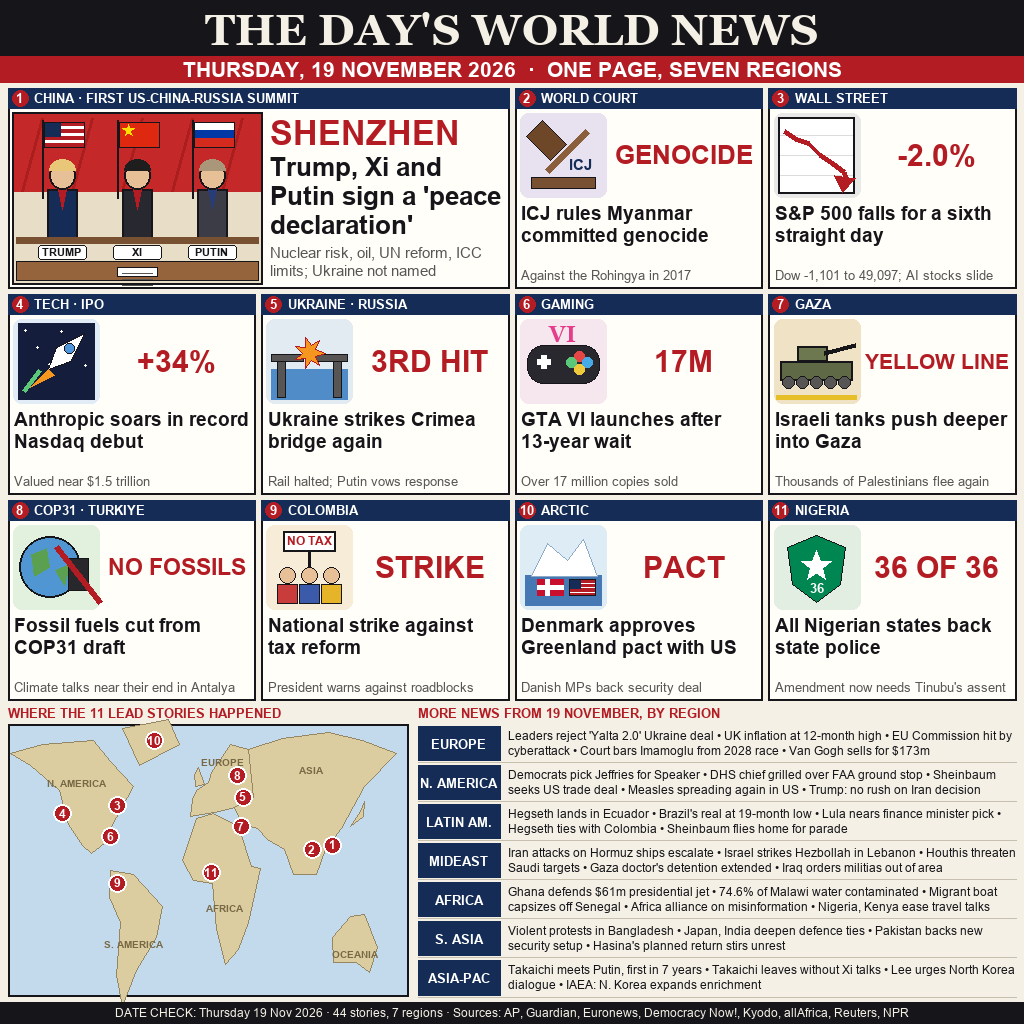
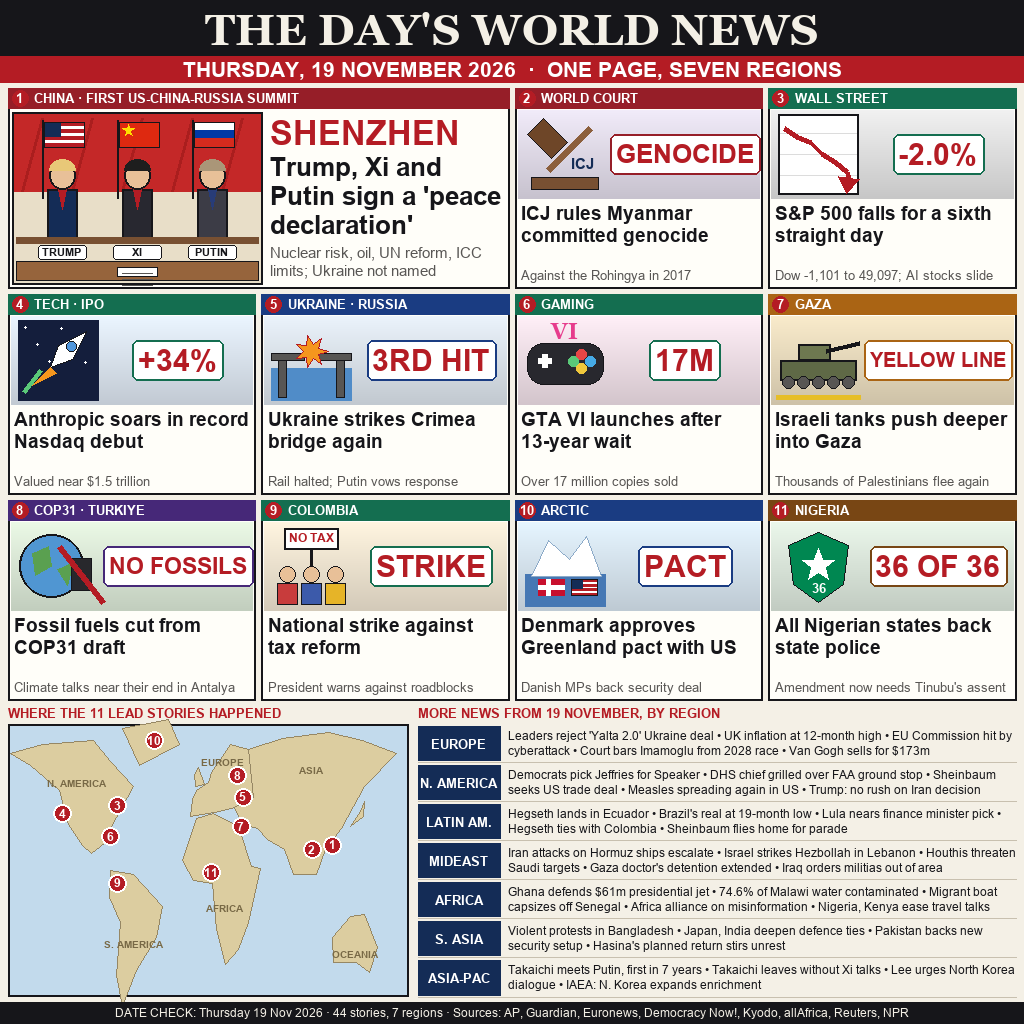
v2: region-coloured cards, gradient art panels, boxed key facts

Changed region(s): [[0.0, 0.4688, 1.0, 0.5938], [0.0, 0.2812, 1.0, 0.4062], [0.0, 0.0625, 1.0, 0.2188]]

diff --git a/build.py b/build.py
@@ -110,6 +110,19 @@ MAP_LABELS = [("N. AMERICA", (-110, 52)), ("S. AMERICA", (-60, -25)), ("EUROPE",
 
 WARN = []
 
+# tag-bar colour by region, so the page reads as a spread across the world
+REGION_COL = {"ASIA": (150, 30, 40), "EUROPE": (26, 60, 130), "AMERICAS": (20, 110, 80),
+              "MIDEAST": (170, 100, 20), "AFRICA": (120, 70, 20), "WORLD": (70, 40, 120)}
+CARD_REGION = ["ASIA", "AMERICAS", "AMERICAS", "EUROPE", "AMERICAS", "MIDEAST", "WORLD", "AMERICAS",
+               "EUROPE", "AFRICA"]
+
+
+def gradient(d, box, top, bottom):
+    x0, y0, x1, y1 = [int(v) for v in box]
+    for yy in range(y0, y1 + 1):
+        t = (yy - y0) / max(1, y1 - y0)
+        d.line([x0, yy, x1, yy], fill=tuple(int(a + (b - a) * t) for a, b in zip(top, bottom)))
+
 
 def wrap(d, text, f, width):
     words, lines, cur = text.split(), [], ""
@@ -335,8 +348,8 @@ def draw_map(d, x0, y0, w, h, pins):
         d.text((px, py), str(num), font=F_PIN, fill=WHITE, anchor="mm")
 
 
-def tag_bar(d, x, y, w, num, tag):
-    d.rectangle([x, y, x + w, y + 20], fill=NAVY)
+def tag_bar(d, x, y, w, num, tag, col=NAVY):
+    d.rectangle([x, y, x + w, y + 20], fill=col)
     d.ellipse([x + 4, y + 2, x + 20, y + 18], fill=RED)
     d.text((x + 12, y + 10), str(num), font=F_TAG, fill=WHITE, anchor="mm")
     d.text((x + 26, y + 10), tag, font=F_TAG, fill=WHITE, anchor="lm")
@@ -359,7 +372,7 @@ def main():
     # lead story spans two columns of the first row
     hw = 2 * cw + gap
     d.rectangle([8, top, 8 + hw, top + ch], fill=CARD, outline=INK, width=2)
-    tag_bar(d, 8, top, hw, 1, HERO[0])
+    tag_bar(d, 8, top, hw, 1, HERO[0], REGION_COL["ASIA"])
     hero_art(d, 12, top + 24, 250, ch - 28)
     tx, tw = 270, 8 + hw - 270 - 6
     d.text((tx, top + 26), HERO[1], font=fit(d, HERO[1], "arialbd.ttf", 34, tw), fill=RED)
@@ -380,11 +393,18 @@ def main():
         cx = 8 + col * (cw + gap)
         cy = top + row * (ch + gap)
         d.rectangle([cx, cy, cx + cw, cy + ch], fill=CARD, outline=INK, width=2)
-        tag_bar(d, cx, cy, cw, i + 2, tag)
-        d.rounded_rectangle([cx + 5, cy + 25, cx + 91, cy + 109], radius=8, fill=panel)
-        ICONS[ic](d, cx + 8, cy + 27, 80)
-        ff = fit(d, fact, "arialbd.ttf", 30, cw - 102)
-        d.text((cx + 94 + (cw - 98) / 2, cy + 67), fact, font=ff, fill=RED, anchor="mm")
+        rc = REGION_COL[CARD_REGION[i]]
+        tag_bar(d, cx, cy, cw, i + 2, tag, rc)
+        light = tuple(min(255, int(c * 1.04)) for c in panel)
+        dark = tuple(int(c * 0.86) for c in panel)
+        gradient(d, [cx + 3, cy + 22, cx + cw - 3, cy + 110], light, dark)
+        ICONS[ic](d, cx + 8, cy + 24, 84)
+        ff = fit(d, fact, "arialbd.ttf", 30, cw - 104)
+        fx, fy = cx + 96 + (cw - 100) / 2, cy + 66
+        tw_ = d.textlength(fact, font=ff)
+        d.rounded_rectangle([fx - tw_ / 2 - 6, fy - 20, fx + tw_ / 2 + 6, fy + 20], radius=6, fill=WHITE,
+                            outline=rc, width=2)
+        d.text((fx, fy), fact, font=ff, fill=RED, anchor="mm")
         lines = wrap(d, head, F_HEAD, cw - 12)
         if len(lines) > 3:
             WARN.append(f"WRAP: card {i + 2} headline {len(lines)} lines")
